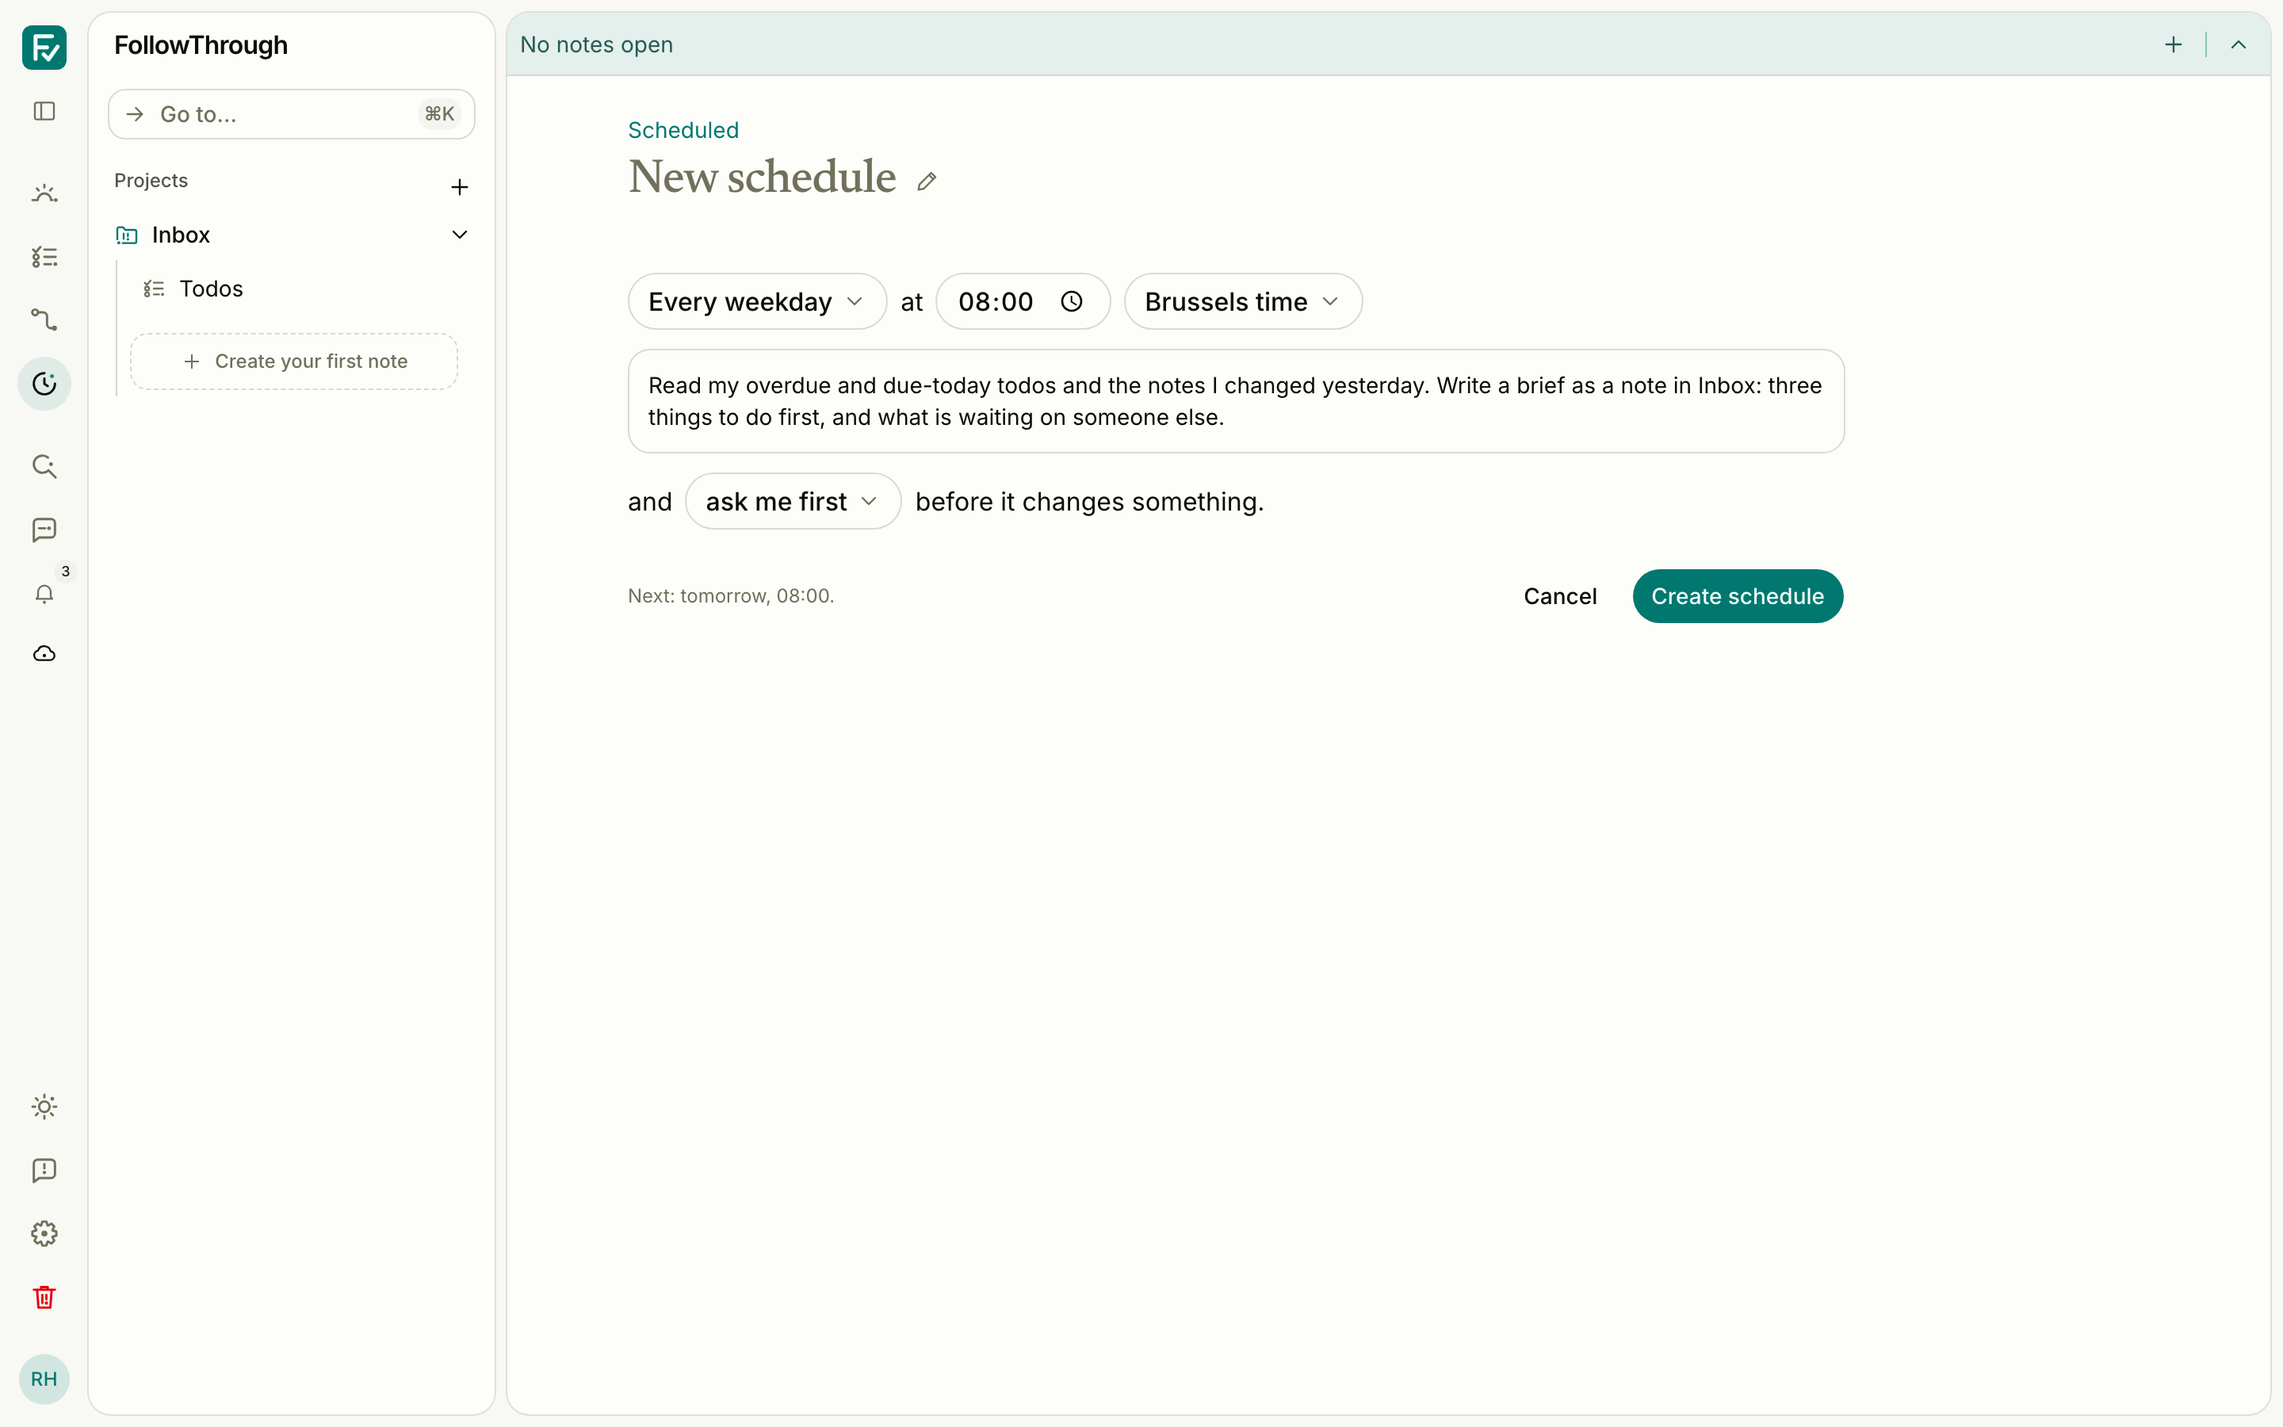
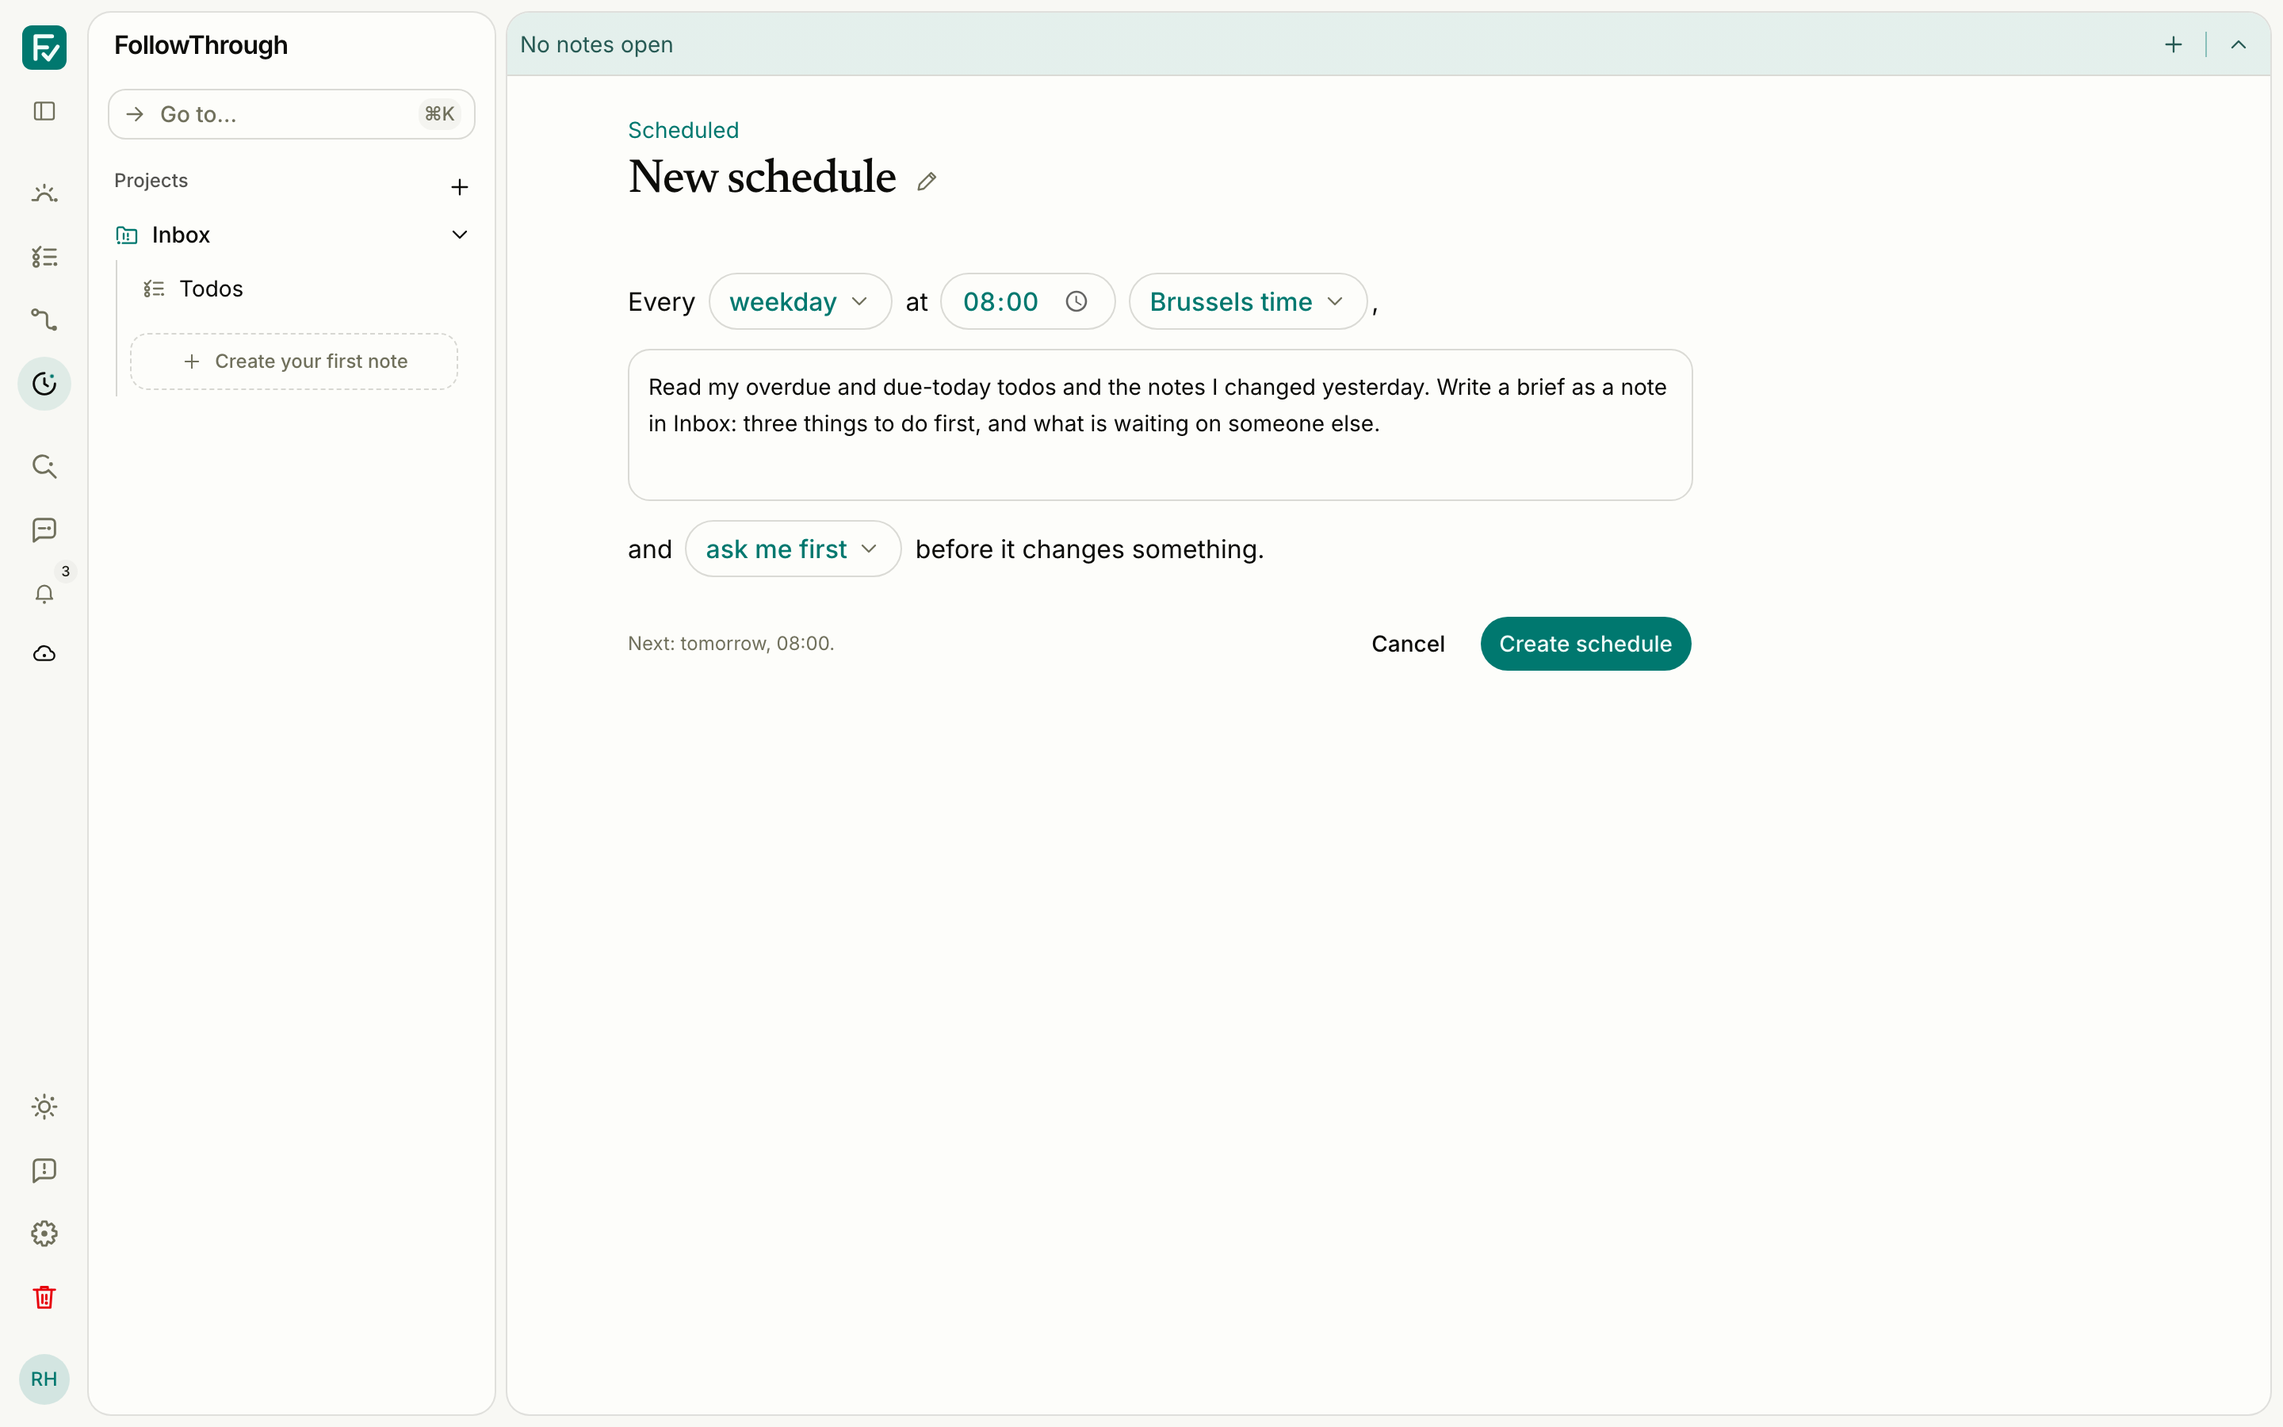
fix(schedules): give the schedule sentence its hierarchy
The sentence on a schedule's page read as one block. Every control and every word between
the controls had the same ink and weight, the title of a new schedule was muted, and the
prompt ran the full width of the list under it.

A word that is a control is now brand ink at medium weight, and the words between them stay
plain. "Every" is written before its control and a comma closes the clause, so the first row
starts with a plain word as the last row does. The prompt is at least three lines tall. The
sentence keeps a narrower measure than the runs. The title of a new schedule is full ink.

diff --git a/src/lib/components/schedules/schedule-sentence.svelte b/src/lib/components/schedules/schedule-sentence.svelte
@@ -17,8 +17,8 @@
 		RHYTHMS,
 		clockValue,
 		ordinal,
-		rhythmLabel,
 		rhythmOf,
+		rhythmWord,
 		timeOfClock,
 		withRhythm,
 		type Rhythm
@@ -51,6 +51,10 @@
 
 	let dateOpen = $state(false);
 
+	// A word that is a control reads as a value: brand ink at medium weight. The words between
+	// them stay plain, so the eye lands on what can change and the sentence still reads through.
+	const WORD = 'text-base font-medium text-brand';
+
 	const MODES: Record<AgentExecutionMode, string> = {
 		approval_required: 'ask me first',
 		auto_accept: 'do not ask me'
@@ -75,9 +79,10 @@
 
 <div class="flex flex-col gap-row text-base">
 	<p class="flex flex-wrap items-center gap-2">
+		{#if recurrence.kind !== 'once'}<span>Every</span>{/if}
 		<Select.Root type="single" value={rhythmOf(recurrence)} onValueChange={chooseRhythm} {disabled}>
-			<Select.Trigger class="text-base font-medium" aria-label="How often">
-				{rhythmLabel(recurrence)}
+			<Select.Trigger class={WORD} aria-label="How often">
+				{rhythmWord(recurrence)}
 			</Select.Trigger>
 			<Select.Content>
 				{#each RHYTHMS as rhythm (rhythm.value)}
@@ -91,13 +96,13 @@
 				type="number"
 				min="0"
 				max="59"
-				class="w-20 text-base font-medium tabular-nums md:text-base"
+				class={[WORD, 'w-20 tabular-nums md:text-base']}
 				aria-label="Minutes past the hour"
 				value={recurrence.minute}
 				{disabled}
 				onchange={(event) => chooseMinute(event.currentTarget.value)}
 			/>
-			<span>minutes past the hour</span>
+			<span>minutes past the hour,</span>
 		{:else}
 			{#if recurrence.kind === 'monthly'}
 				<span>on the</span>
@@ -107,7 +112,7 @@
 					{disabled}
 					onValueChange={(value) => onrecurrence({ ...recurrence, day: Number(value) })}
 				>
-					<Select.Trigger class="text-base font-medium tabular-nums" aria-label="Day of the month">
+					<Select.Trigger class={[WORD, 'tabular-nums']} aria-label="Day of the month">
 						{ordinal(recurrence.day)}
 					</Select.Trigger>
 					<Select.Content class="max-h-72">
@@ -121,7 +126,7 @@
 				<Popover.Root bind:open={dateOpen}>
 					<Popover.Trigger>
 						{#snippet child({ props })}
-							<Button {...props} variant="outline" {disabled} class="text-base font-medium">
+							<Button {...props} variant="outline" {disabled} class={WORD}>
 								<Icon.Calendar data-icon="inline-start" />{formatDate(recurrence.date)}
 							</Button>
 						{/snippet}
@@ -140,19 +145,25 @@
 			<span>at</span>
 			<Input
 				type="time"
-				class="w-auto text-base font-medium tabular-nums md:text-base"
+				class={[
+					WORD,
+					// The browser's own clock glyph, lowered to the weight of the chevrons beside it.
+					'w-auto tabular-nums md:text-base [&::-webkit-calendar-picker-indicator]:opacity-60'
+				]}
 				aria-label="Time of day"
 				value={clockValue(recurrence.time)}
 				{disabled}
 				onchange={(event) => chooseTime(event.currentTarget.value)}
 			/>
-			<TimeZoneField value={timeZone} {disabled} onchange={ontimezone} />
+			<TimeZoneField value={timeZone} {disabled} class={WORD} onchange={ontimezone} />
+			<!-- The comma closes the clause; pulled in so it sits against the word before it. -->
+			<span class="-ml-1.5">,</span>
 		{/if}
 	</p>
 	<Textarea
 		value={prompt}
 		rows={4}
-		class="resize-none text-sm"
+		class="min-h-24 resize-none text-sm leading-relaxed"
 		placeholder="read my overdue todos and write a brief as a note in Inbox"
 		aria-label="What the agent does"
 		{disabled}
@@ -167,7 +178,7 @@
 			onValueChange={(value) =>
 				onmode(value === 'auto_accept' ? 'auto_accept' : 'approval_required')}
 		>
-			<Select.Trigger class="text-base font-medium" aria-label="Whether a run asks before a change">
+			<Select.Trigger class={WORD} aria-label="Whether a run asks before a change">
 				{MODES[executionMode]}
 			</Select.Trigger>
 			<Select.Content>

diff --git a/src/lib/components/schedules/sentence.ts b/src/lib/components/schedules/sentence.ts
@@ -5,30 +5,48 @@ import type { LocalDate } from '$lib/models/workspace';
 /** The first choice in the sentence: how often. A weekly recurrence is chosen by its day. */
 export type Rhythm = Exclude<Recurrence['kind'], 'weekly'> | Weekday;
 
-export const RHYTHMS: readonly { readonly value: Rhythm; readonly label: string }[] = [
-	{ value: 'hourly', label: 'Every hour' },
-	{ value: 'daily', label: 'Every day' },
-	{ value: 'weekdays', label: 'Every weekday' },
-	{ value: 'mon', label: 'Every Monday' },
-	{ value: 'tue', label: 'Every Tuesday' },
-	{ value: 'wed', label: 'Every Wednesday' },
-	{ value: 'thu', label: 'Every Thursday' },
-	{ value: 'fri', label: 'Every Friday' },
-	{ value: 'sat', label: 'Every Saturday' },
-	{ value: 'sun', label: 'Every Sunday' },
-	{ value: 'monthly', label: 'Every month' },
-	{ value: 'once', label: 'Once' }
+/** What a schedule that repeats repeats on: the word the sentence shows after "Every". */
+const REPEATING: readonly { readonly value: Exclude<Rhythm, 'once'>; readonly word: string }[] = [
+	{ value: 'hourly', word: 'hour' },
+	{ value: 'daily', word: 'day' },
+	{ value: 'weekdays', word: 'weekday' },
+	{ value: 'mon', word: 'Monday' },
+	{ value: 'tue', word: 'Tuesday' },
+	{ value: 'wed', word: 'Wednesday' },
+	{ value: 'thu', word: 'Thursday' },
+	{ value: 'fri', word: 'Friday' },
+	{ value: 'sat', word: 'Saturday' },
+	{ value: 'sun', word: 'Sunday' },
+	{ value: 'monthly', word: 'month' }
+];
+
+/**
+ * Every rhythm, with its two readings. `label` stands alone in the list of choices. `word` is
+ * what the control shows inside the sentence, where "Every" is already written before it.
+ */
+export const RHYTHMS: readonly {
+	readonly value: Rhythm;
+	readonly label: string;
+	readonly word: string;
+}[] = [
+	...REPEATING.map(({ value, word }) => ({ value, word, label: `Every ${word}` })),
+	{ value: 'once', word: 'Once', label: 'Once' }
 ];
 
 export const rhythmOf = (recurrence: Recurrence): Rhythm =>
 	recurrence.kind === 'weekly' ? recurrence.weekday : recurrence.kind;
 
-export const rhythmLabel = (recurrence: Recurrence): string => {
+const chosenRhythm = (recurrence: Recurrence) => {
 	const rhythm = rhythmOf(recurrence);
 	const chosen = RHYTHMS.find((candidate) => candidate.value === rhythm);
 	if (!chosen) throw new Error(`No label for the rhythm ${rhythm}`);
-	return chosen.label;
+	return chosen;
 };
+
+export const rhythmLabel = (recurrence: Recurrence): string => chosenRhythm(recurrence).label;
+
+/** The rhythm as the sentence shows it: "weekday" after "Every", or "Once" on its own. */
+export const rhythmWord = (recurrence: Recurrence): string => chosenRhythm(recurrence).word;
 
 /** Eight in the morning: the time a recurrence that has none yet starts from. */
 const MORNING: TimeOfDay = { hour: 8, minute: 0 };

diff --git a/src/lib/components/schedules/sentence.spec.ts b/src/lib/components/schedules/sentence.spec.ts
@@ -1,7 +1,15 @@
 import { describe, expect, it } from 'vitest';
 import type { IanaTimeZone, Recurrence } from '$lib/models/schedules';
 import type { LocalDate } from '$lib/models/workspace';
-import { clockValue, ordinal, rhythmLabel, rhythmOf, timeOfClock, withRhythm } from './sentence';
+import {
+	clockValue,
+	ordinal,
+	rhythmLabel,
+	rhythmOf,
+	rhythmWord,
+	timeOfClock,
+	withRhythm
+} from './sentence';
 
 const brussels = 'Europe/Brussels' as IanaTimeZone;
 const half = { hour: 16, minute: 30 };
@@ -15,11 +23,15 @@ describe('the first choice of the schedule sentence', () => {
 		];
 
 		expect(
-			recurrences.map((recurrence) => [rhythmOf(recurrence), rhythmLabel(recurrence)])
+			recurrences.map((recurrence) => [
+				rhythmOf(recurrence),
+				rhythmLabel(recurrence),
+				rhythmWord(recurrence)
+			])
 		).toEqual([
-			['fri', 'Every Friday'],
-			['weekdays', 'Every weekday'],
-			['once', 'Once']
+			['fri', 'Every Friday', 'Friday'],
+			['weekdays', 'Every weekday', 'weekday'],
+			['once', 'Once', 'Once']
 		]);
 	});
 

diff --git a/src/lib/components/schedules/time-zone-field.svelte b/src/lib/components/schedules/time-zone-field.svelte
@@ -10,10 +10,13 @@
 	let {
 		value,
 		disabled = false,
+		class: className,
 		onchange
 	}: {
 		value: IanaTimeZone;
 		disabled?: boolean;
+		/** How the trigger reads beside its neighbours; the sentence sets it. */
+		class: string;
 		onchange: (timeZone: IanaTimeZone) => void;
 	} = $props();
 
@@ -34,7 +37,7 @@
 				{...props}
 				variant="outline"
 				{disabled}
-				class="text-base font-medium"
+				class={className}
 				aria-label="Time zone: {value}"
 			>
 				{workspaceViews.scheduleZoneName(value)}

diff --git a/src/lib/components/schedules/schedule-detail.svelte b/src/lib/components/schedules/schedule-detail.svelte
@@ -107,8 +107,9 @@
 	{/snippet}
 
 	<div class="flex max-w-3xl flex-col gap-section">
+		<!-- The sentence keeps a narrower measure than the runs under it: it is read, not scanned. -->
 		<div
-			class="flex flex-col gap-item"
+			class="flex max-w-2xl flex-col gap-item"
 			onfocusout={(event) => {
 				if (event.target instanceof HTMLTextAreaElement) void savePrompt();
 			}}

diff --git a/src/lib/components/schedules/schedule-heading.svelte b/src/lib/components/schedules/schedule-heading.svelte
@@ -54,9 +54,7 @@
 					oncancel={() => (editing = false)}
 				/>
 			{:else}
-				<h1 class={['page-title min-w-0 truncate', !title && 'text-muted-foreground']}>
-					{title || placeholder}
-				</h1>
+				<h1 class="page-title min-w-0 truncate">{title || placeholder}</h1>
 				<Tip text="Rename">
 					{#snippet children({ props })}
 						<Button

diff --git a/src/lib/components/schedules/schedule-new.svelte b/src/lib/components/schedules/schedule-new.svelte
@@ -52,7 +52,8 @@
 		/>
 	{/snippet}
 
-	<div class="flex max-w-3xl flex-col gap-group">
+	<!-- The sentence keeps a narrower measure than a list: it is read, not scanned. -->
+	<div class="flex max-w-2xl flex-col gap-group">
 		<ScheduleSentence
 			{recurrence}
 			{timeZone}

diff --git a/docs/design/agent-digest.md b/docs/design/agent-digest.md
@@ -49,7 +49,7 @@
 - ladder: eyebrow/caption (xs) → body (sm) → section-title (base) → page-title (3xl) → note-title (clamp)
 - spacing ladder (layout.css `--spacing-*`): bind 4 / item 8 / row 12 / group 24 / section 40. vertical stacks (space-y, gap on flex-col/grid) use only these — not machine-checked; a numeric stack gap is a review finding. icon↔label gaps stay numeric
 - todos are divided rows (todo-row.svelte), never cards; one muted meta line; project = text-brand on rows (badge wash is for chips); drag = opaque brand/20 wash + 2px brand drop line, no shadow; board columns are hairline-separated zones with titles above the rules; rows are square (rounding bends divide-y hairlines), 8px title→meta, py-4; column title shares the row inset (dot over checkbox); trailing controls overlay on hover, no reserved width; columns flex-1 min-w-64
-- scheduled runs: a schedule = ONE SENTENCE whose words are the controls (Select/time Input/zone Popover/Textarea/mode Select at text-base) — no dialog, no labelled form, no helper text; new schedule = same page + one button; existing saves each change at once (prompt on blur). list = divided rows at reading measure: Switch (pause) + title + one caption + max one brand badge ("Waiting for you" before "N new"). run row = when + one line, a link that opens the chat in the right panel. vocabulary: schedule, run — never task.
+- scheduled runs: a schedule = ONE SENTENCE whose words are the controls (Select/time Input/zone Popover/Textarea/mode Select at text-base) — no dialog, no labelled form, no helper text, no icons; control words = text-brand font-medium, connecting words plain foreground OUTSIDE the controls ("Every [weekday] at [08:00] [Brussels time],"); prompt text-sm min 3 lines; sentence max-w-2xl (narrower than its runs); page title always full ink; new schedule = same page + one button; existing saves each change at once (prompt on blur). list = divided rows at reading measure: Switch (pause) + title + one caption + max one brand badge ("Waiting for you" before "N new"). run row = when + one line, a link that opens the chat in the right panel. vocabulary: schedule, run — never task.
 - ONE bell (components/shell/attention): groups in order "Waiting for you" / "Finished while you were away" / "Memory to review"; badge = sum. new attention = a group here, never a second bell or a rail badge.
 - project-overview resource rows sit at base/500 — one step above the sm documents list, because a space outranks a document
 - exceptions: right-panel + drawio chrome-bar titles, sidebar brand = chrome, not content scale

diff --git a/docs/design/design-system.md b/docs/design/design-system.md
@@ -436,7 +436,12 @@ the section's mark: `Scene.ReadAlone` (read with), `Scene.Unlinked` (linked), `S
   weekday at 08:00 Brussels time, <the prompt> and ask me first before it changes something."
   The page of a schedule is that sentence at base size with its runs under it; a new schedule is
   the same page with one button. No dialog, no labelled form, no helper text beside a control:
-  the sentence is the label. One muted line under it states the next run, and one more appears
+  the sentence is the label. Its hierarchy is ink and weight, with no icon: a word that is a
+  control is `text-brand font-medium`, and the words between them ("Every", "at", "and", "before
+  it changes something.") stay plain foreground at regular weight, outside any control. The
+  prompt is the one field at `text-sm`, at least three lines tall. The sentence keeps `max-w-2xl`,
+  narrower than the runs under it: it is read, the runs are scanned. The page title is always
+  full ink, also while a new schedule has no name. One muted line under it states the next run, and one more appears
   only for "do not ask me". An existing schedule saves each change at once and the prompt on
   blur. The list is divided rows at the reading measure: a `Switch` that pauses, the title, one
   caption (recurrence, whether it asks, the next run), and at most one brand badge, "Waiting for
